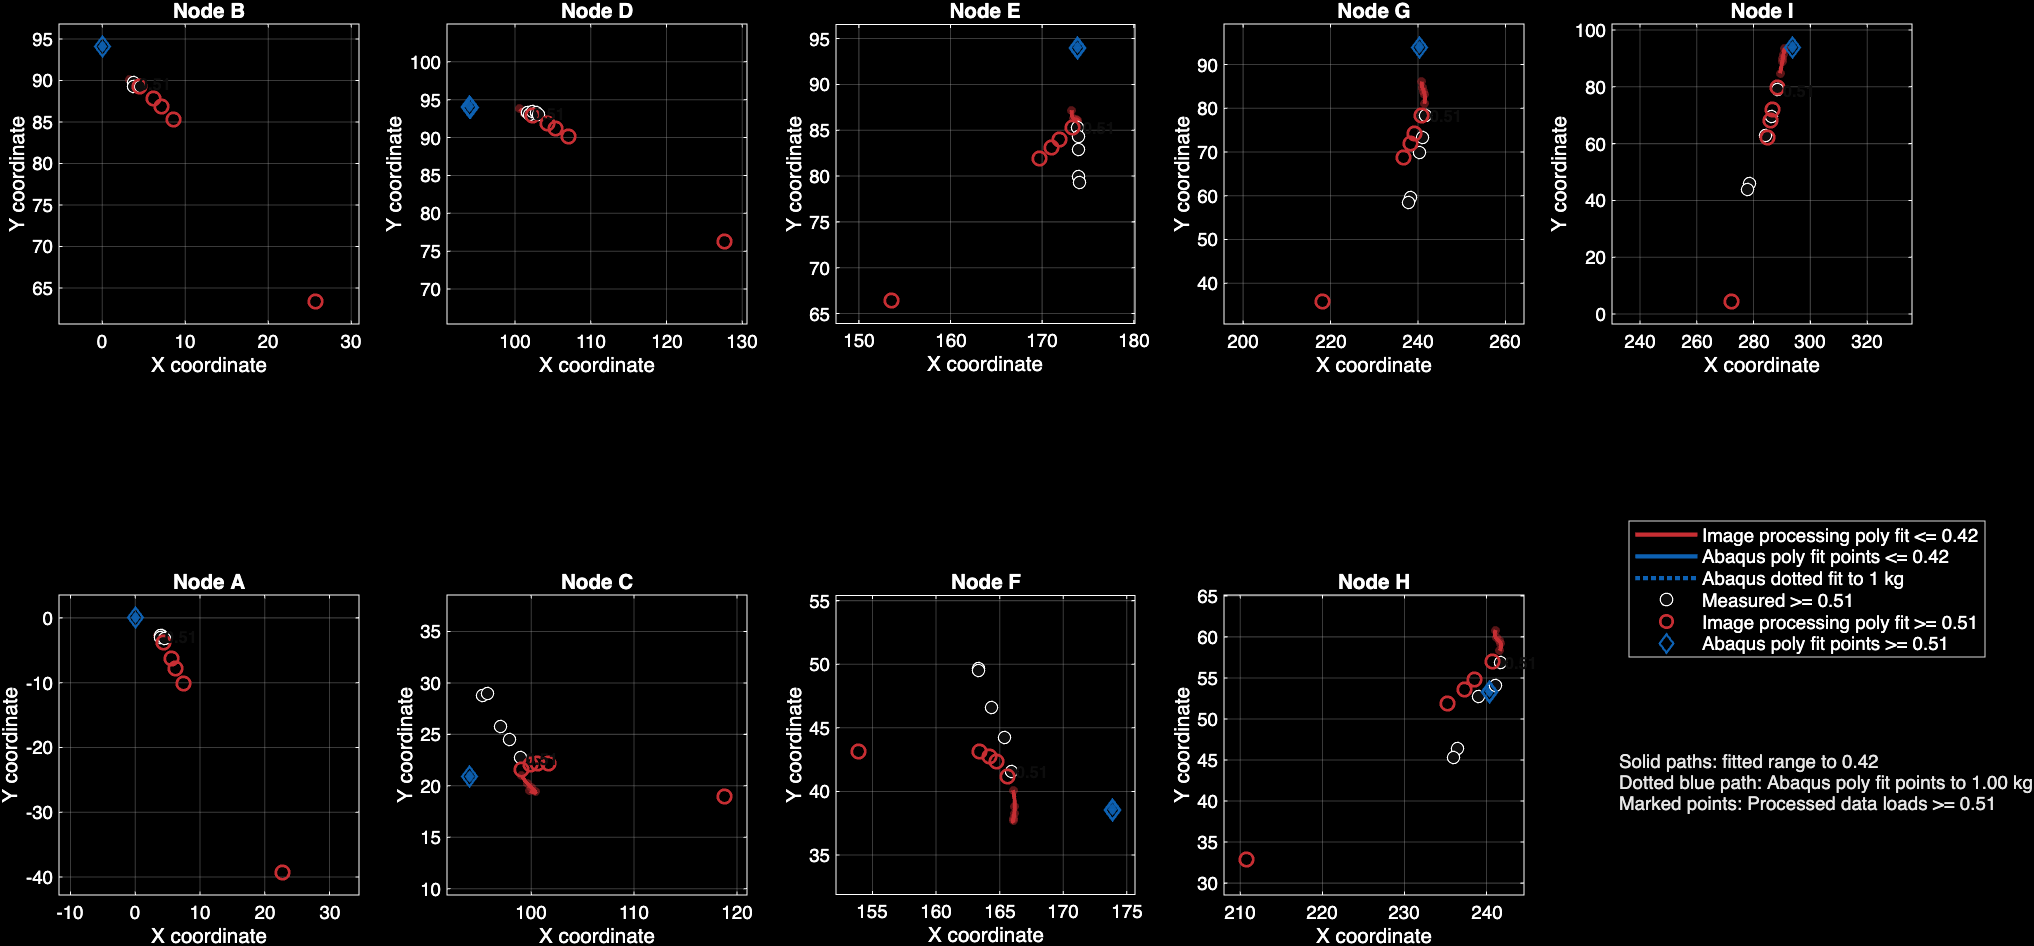
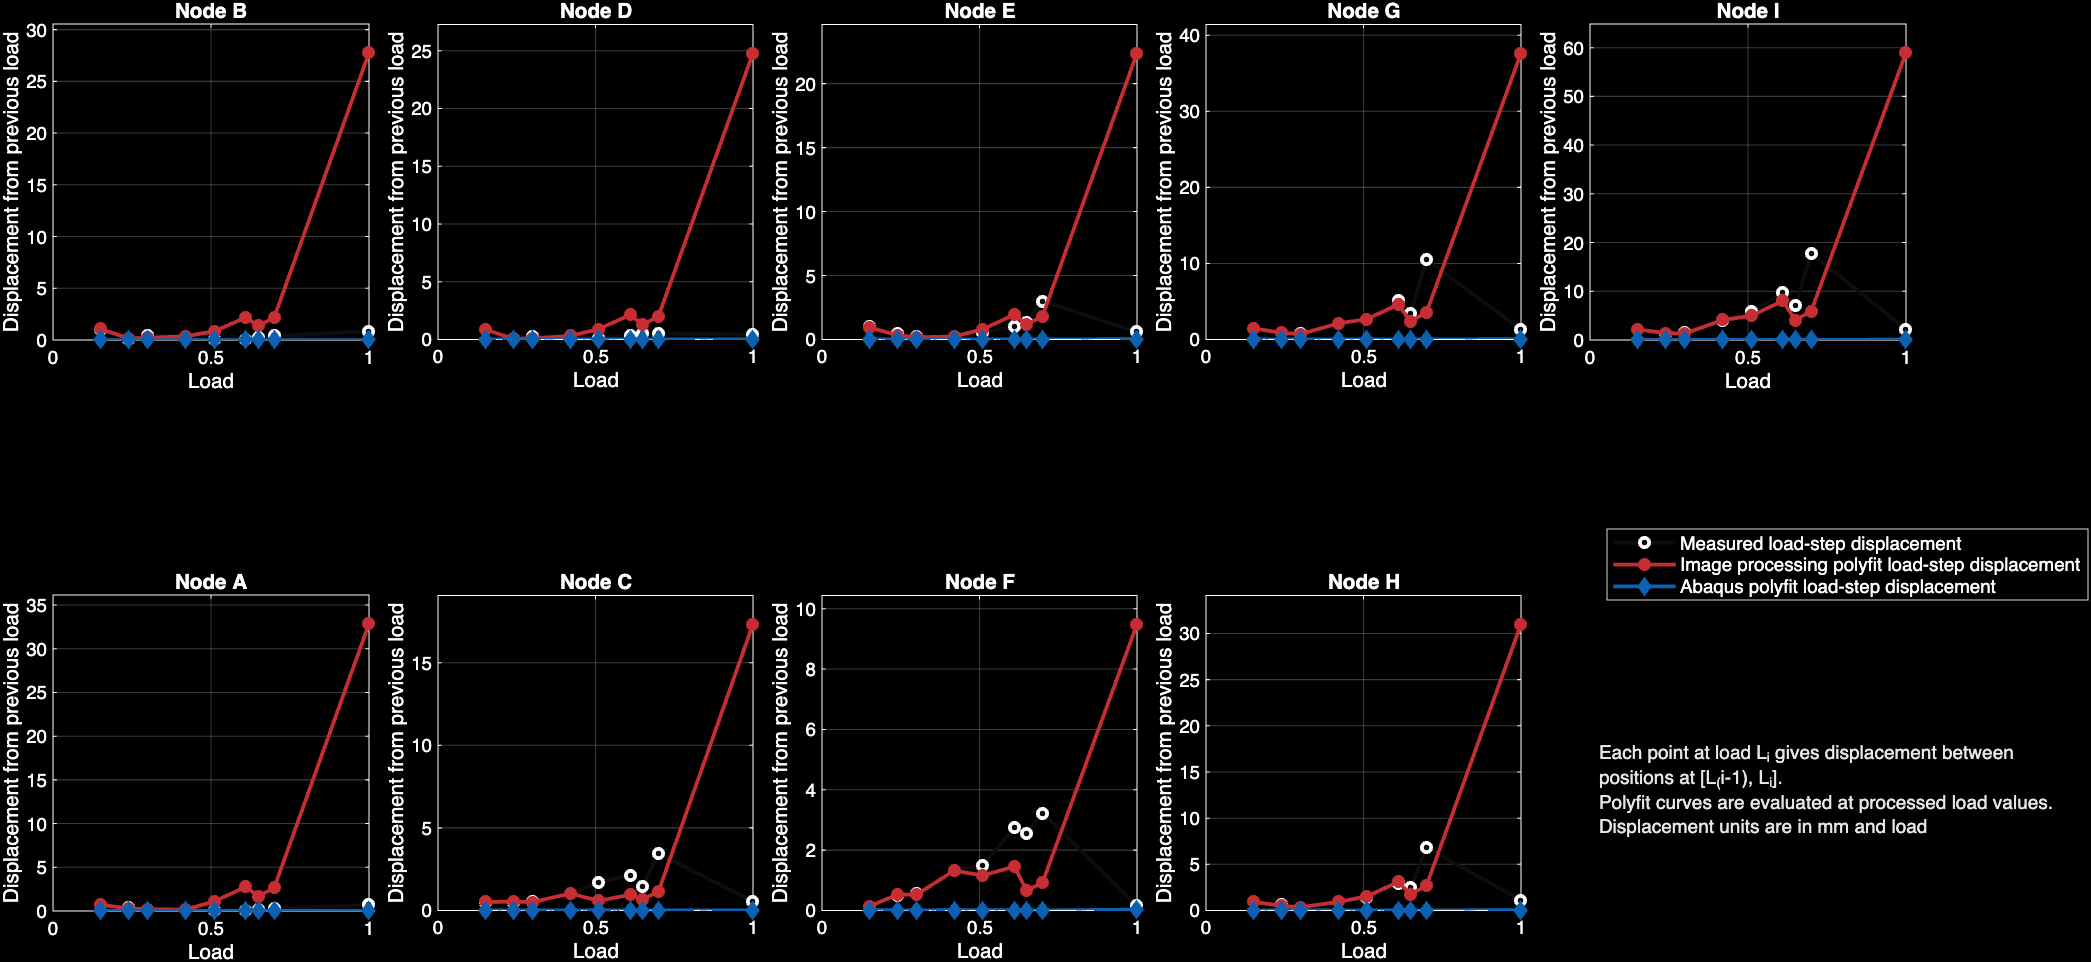
Modified Per_node_detailed_analysis script to show displacement comparisons

diff --git a/Data_analysis/Per_node_detailed_analysis.m b/Data_analysis/Per_node_detailed_analysis.m
@@ -1,31 +1,23 @@
 % =========================================================================
-%  Per-node polyfit deviation plots
+%  Per-node load-step displacement plots
 %
 %  Layout:
 %    Row 1: B, D, E, G, I
 %    Row 2: A, C, F, H
 %
-%  For each node, this script plots the x-y movement path using:
-%    1) Image-processing polyfit from Image_processing_data/Poly_Fit_Results.csv
-%    2) Abaqus polyfit from Abaqus simulation data/Poly_Fit_Results.csv
-%    3) Measured points from Image_processing_data/Processed_data.csv
+%  For each node, this script plots displacement between consecutive loads
+%  as a function of load using:
+%    1) Measured points from Image_processing_data/Processed_data.csv
+%    2) Image-processing polyfit from Image_processing_data/Poly_Fit_Results.csv
+%    3) Abaqus polyfit from Abaqus simulation data/Poly_Fit_Results.csv
 %
-%  Loads <= 0.42 are shown as the fitted pre-deformation path.
-%  The Abaqus fit continues to 1 kg as a dotted prediction line.
-%  Loads >= 0.51 are marked at the Processed_data load points for:
-%    - processed measured data
-%    - image-processing polyfit prediction
-%    - Abaqus polyfit prediction
-%
-%  Each node axis is zoomed independently around that node's movement.
+%  Step displacement at load L_i is computed from positions at
+%  [L_(i-1), L_i] using sqrt((dx)^2 + (dy)^2).
 % =========================================================================
 
 clear; clc; close all;
 
 %% ---------------- User settings ----------------
-load_fit_end   = 0.42;
-load_dev_start = 0.51;
-abaqus_fit_end = 1.00;
 save_figure    = false;
 % -------------------------------------------------
 
@@ -73,16 +65,8 @@ end
 image_coef  = readPolyfitCoefficients(image_fit_file, node_names);
 abaqus_coef = readPolyfitCoefficients(abaqus_fit_file, node_names);
 
-%% ---------------- Load vectors ----------------
-pre_load_points = loads(loads <= load_fit_end);
-if isempty(pre_load_points)
-    error('No processed load points found at or below %.2f.', load_fit_end);
-end
-
-L_pre = linspace(min(pre_load_points), load_fit_end, 160);
-L_dev = loads(loads >= load_dev_start);
-if isempty(L_dev)
-    error('No processed load points found at or above %.2f.', load_dev_start);
+if numel(loads) < 2
+    error('At least two load points are required to compute load-step displacement.');
 end
 
 %% ---------------- Plot styling ----------------
@@ -91,7 +75,7 @@ c_abaqus = [0.05, 0.38, 0.70];
 c_meas   = [0.05, 0.05, 0.05];
 c_grid   = [0.65, 0.65, 0.65];
 
-fig = figure('Name', 'Per-node polyfit deviation', ...
+fig = figure('Name', 'Per-node load-step displacement', ...
              'NumberTitle', 'off', ...
              'Color', 'black', ...
              'Units', 'normalized', ...
@@ -106,64 +90,36 @@ for k = 1:numel(node_order)
     ax = nexttile(k);
     hold(ax, 'on');
 
-    % Fitted paths up to 0.42.
-    [img_x_pre, img_y_pre] = evalNodePath(image_coef, nd, L_pre);
-    [abq_x_pre, abq_y_pre] = evalNodePath(abaqus_coef, nd, L_pre);
+    [img_x, img_y] = evalNodePath(image_coef, nd, loads);
+    [abq_x, abq_y] = evalNodePath(abaqus_coef, nd, loads);
 
-    h_img_pre = plot(ax, img_x_pre, img_y_pre, '-', ...
-        'Color', c_img, 'LineWidth', 2.0, ...
-        'DisplayName', 'Image processing poly fit <= 0.42');
-    h_abq_pre = plot(ax, abq_x_pre, abq_y_pre, '-', ...
-        'Color', c_abaqus, 'LineWidth', 2.0, ...
-        'DisplayName', 'Abaqus poly fit points <= 0.42');
+    [L_meas, disp_meas] = computeLoadStepDisplacement(loads, meas.(nd).x, meas.(nd).y);
+    [L_img, disp_img] = computeLoadStepDisplacement(loads, img_x, img_y);
+    [L_abq, disp_abq] = computeLoadStepDisplacement(loads, abq_x, abq_y);
 
-    % Mark the exact Processed_data load points used before 0.42.
-    [img_x_pre_pts, img_y_pre_pts] = evalNodePath(image_coef, nd, pre_load_points);
-    [abq_x_pre_pts, abq_y_pre_pts] = evalNodePath(abaqus_coef, nd, pre_load_points);
-    scatter(ax, img_x_pre_pts, img_y_pre_pts, 18, c_img, 'o', ...
-        'filled', 'MarkerFaceAlpha', 0.45, 'MarkerEdgeColor', 'none', ...
-        'HandleVisibility', 'off');
-    scatter(ax, abq_x_pre_pts, abq_y_pre_pts, 18, c_abaqus, 'd', ...
-        'filled', 'MarkerFaceAlpha', 0.45, 'MarkerEdgeColor', 'none', ...
-        'HandleVisibility', 'off');
+    h_meas = plot(ax, L_meas, disp_meas, '-o', ...
+        'Color', c_meas, 'LineWidth', 1.8, 'MarkerSize', 4.5, ...
+        'MarkerFaceColor', c_meas, 'MarkerEdgeColor', 'white', ...
+        'DisplayName', 'Measured load-step displacement');
+    h_img = plot(ax, L_img, disp_img, '-o', ...
+        'Color', c_img, 'LineWidth', 1.8, 'MarkerSize', 4.5, ...
+        'MarkerFaceColor', c_img, 'DisplayName', 'Image processing polyfit load-step displacement');
+    h_abq = plot(ax, L_abq, disp_abq, '-d', ...
+        'Color', c_abaqus, 'LineWidth', 1.8, 'MarkerSize', 4.8, ...
+        'MarkerFaceColor', c_abaqus, 'DisplayName', 'Abaqus polyfit load-step displacement');
 
-    % Abaqus prediction after 0.42 continues to 1 kg as a dotted line.
-    % Image-processing fit after 0.42 is shown only through load-point markers.
-    L_abq_ext = linspace(load_fit_end, abaqus_fit_end, 160);
-    [abq_x_ext, abq_y_ext] = evalNodePath(abaqus_coef, nd, L_abq_ext);
+    if isempty(L_meas) && isempty(L_img) && isempty(L_abq)
+        text(ax, 0.5, 0.5, 'No valid load-step points', ...
+            'Units', 'normalized', 'HorizontalAlignment', 'center', ...
+            'Color', 'white', 'FontSize', 9, 'FontWeight', 'bold');
+    end
 
-    plot(ax, abq_x_ext, abq_y_ext, ':', 'Color', c_abaqus, ...
-        'LineWidth', 2.0, 'DisplayName', 'Abaqus poly fit points to 1 kg');
-
-    [img_x_dev, img_y_dev] = evalNodePath(image_coef, nd, L_dev);
-    [abq_x_dev, abq_y_dev] = evalNodePath(abaqus_coef, nd, L_dev);
-
-    dev_mask = loads >= load_dev_start;
-    meas_x_dev = meas.(nd).x(dev_mask);
-    meas_y_dev = meas.(nd).y(dev_mask);
-
-    h_meas_dev = scatter(ax, meas_x_dev, meas_y_dev, 34, c_meas, 'o', ...
-        'filled', 'MarkerEdgeColor', 'white', 'LineWidth', 0.6, ...
-        'DisplayName', 'Measured >= 0.51');
-    h_img_dev = scatter(ax, img_x_dev, img_y_dev, 42, c_img, 'o', ...
-        'LineWidth', 1.3, 'DisplayName', 'Image processing poly fit >= 0.51');
-    h_abq_dev = scatter(ax, abq_x_dev, abq_y_dev, 42, c_abaqus, 'd', ...
-        'LineWidth', 1.3, 'DisplayName', 'Abaqus poly fit points >= 0.51');
-
-    % Mark first deviation point so the post-0.51 comparison is easy to find.
-    text(ax, meas_x_dev(1), meas_y_dev(1), ' 0.51', ...
-        'Color', c_meas, 'FontSize', 8, 'FontWeight', 'bold');
-
-    % Independent zoom around each node's local movement.
-    x_all = [img_x_pre(:); abq_x_pre(:); abq_x_ext(:); ...
-             meas_x_dev(:); img_x_dev(:); abq_x_dev(:)];
-    y_all = [img_y_pre(:); abq_y_pre(:); abq_y_ext(:); ...
-             meas_y_dev(:); img_y_dev(:); abq_y_dev(:)];
-    setLocalSquareLimits(ax, x_all, y_all);
+    xlim(ax, [min(loads), max(loads)]);
+    setLocalYLimits(ax, [disp_meas(:); disp_img(:); disp_abq(:)]);
 
     title(ax, sprintf('Node %s', nd), 'FontWeight', 'bold', 'Color', 'white');
-    xlabel(ax, 'X coordinate', 'Color', 'white');
-    ylabel(ax, 'Y coordinate', 'Color', 'white');
+    xlabel(ax, 'Load', 'Color', 'white');
+    ylabel(ax, 'Displacement from previous load', 'Color', 'white');
     grid(ax, 'on');
     box(ax, 'on');
     ax.Color = 'black';
@@ -180,33 +136,31 @@ end
 %% ---------------- Legend / notes tile ----------------
 ax_legend = nexttile(10);
 hold(ax_legend, 'on');
-h_img_pre_l = plot(ax_legend, nan, nan, '-', ...
-    'Color', c_img, 'LineWidth', 2.0);
-h_abq_pre_l = plot(ax_legend, nan, nan, '-', ...
-    'Color', c_abaqus, 'LineWidth', 2.0);
-h_abq_ext_l = plot(ax_legend, nan, nan, ':', ...
-    'Color', c_abaqus, 'LineWidth', 2.0);
-h_meas_dev_l = scatter(ax_legend, nan, nan, 34, c_meas, 'o', ...
-    'filled', 'MarkerEdgeColor', 'white', 'LineWidth', 0.6);
-h_img_dev_l = scatter(ax_legend, nan, nan, 42, c_img, 'o', ...
-    'LineWidth', 1.3);
-h_abq_dev_l = scatter(ax_legend, nan, nan, 42, c_abaqus, 'd', ...
-    'LineWidth', 1.3);
+h_meas_l = plot(ax_legend, nan, nan, '-o', ...
+    'Color', c_meas, 'LineWidth', 1.8, 'MarkerSize', 4.5, ...
+    'MarkerFaceColor', c_meas, 'MarkerEdgeColor', 'white');
+h_img_l = plot(ax_legend, nan, nan, '-o', ...
+    'Color', c_img, 'LineWidth', 1.8, 'MarkerSize', 4.5, ...
+    'MarkerFaceColor', c_img);
+h_abq_l = plot(ax_legend, nan, nan, '-d', ...
+    'Color', c_abaqus, 'LineWidth', 1.8, 'MarkerSize', 4.8, ...
+    'MarkerFaceColor', c_abaqus);
 axis(ax_legend, 'off');
 legend(ax_legend, ...
-    [h_img_pre_l, h_abq_pre_l, h_abq_ext_l, h_meas_dev_l, h_img_dev_l, h_abq_dev_l], ...
-    {'Image processing poly fit <= 0.42', 'Abaqus poly fit points <= 0.42', 'Abaqus dotted fit to 1 kg', ...
-     'Measured >= 0.51', 'Image processing poly fit >= 0.51', ...
-     'Abaqus poly fit points >= 0.51'}, ...
+    [h_meas_l, h_img_l, h_abq_l], ...
+    {'Measured load-step displacement', 'Image processing polyfit load-step displacement', ...
+     'Abaqus polyfit load-step displacement'}, ...
     'Location', 'northwest', 'FontSize', 9, 'TextColor', 'white', 'Color', 'black');
 text(ax_legend, 0.02, 0.42, ...
-    sprintf('Solid paths: fitted range to %.2f\nDotted blue path: Abaqus poly fit points to %.2f kg\nMarked points: Processed data loads >= %.2f', ...
-            load_fit_end, abaqus_fit_end, load_dev_start), ...
+    sprintf(['Each point at load L_i gives displacement between\n' ...
+             'positions at [L_(i-1), L_i].\n' ...
+             'Polyfit curves are evaluated at processed load values.\n' ...
+             'Displacement units are in mm and load in kg']), ...
     'Units', 'normalized', 'FontSize', 9, 'Color', [0.90, 0.90, 0.90]);
 hold(ax_legend, 'off');
 
 if save_figure
-    out_file = fullfile(repo_dir, 'Results', 'node_polyfit_deviation_subplots.png');
+    out_file = fullfile(repo_dir, 'Results', 'node_load_step_displacement_subplots.png');
     exportgraphics(fig, out_file, 'Resolution', 300);
     fprintf('Saved figure to: %s\n', out_file);
 end
@@ -249,22 +203,44 @@ function [x, y] = evalNodePath(coef, node_name, loads)
     y = polyval(coef.(node_name).y, loads);
 end
 
-function setLocalSquareLimits(ax, x_values, y_values)
-    x_values = x_values(isfinite(x_values));
-    y_values = y_values(isfinite(y_values));
+function [step_loads, step_displacement] = computeLoadStepDisplacement(loads, x_values, y_values)
+    loads = loads(:);
+    x_values = x_values(:);
+    y_values = y_values(:);
 
-    x_min = min(x_values);
-    x_max = max(x_values);
+    if numel(loads) ~= numel(x_values) || numel(loads) ~= numel(y_values)
+        error('Load and coordinate vectors must have the same number of elements.');
+    end
+
+    dx = diff(x_values);
+    dy = diff(y_values);
+    all_step_loads = loads(2:end);
+    all_step_disp = hypot(dx, dy);
+
+    valid_steps = isfinite(all_step_loads) & isfinite(dx) & isfinite(dy) & isfinite(all_step_disp);
+    step_loads = all_step_loads(valid_steps);
+    step_displacement = all_step_disp(valid_steps);
+end
+
+function setLocalYLimits(ax, y_values)
+    y_values = y_values(isfinite(y_values));
+    if isempty(y_values)
+        ylim(ax, [0, 1]);
+        return;
+    end
+
     y_min = min(y_values);
     y_max = max(y_values);
 
-    x_span = max(x_max - x_min, 0.5);
-    y_span = max(y_max - y_min, 0.5);
-    span = max([x_span, y_span, 1.0]) * 1.18;
+    if y_min == y_max
+        pad = max(0.05 * max(abs(y_max), 1), 1e-4);
+    else
+        pad = 0.10 * (y_max - y_min);
+    end
 
-    x_mid = (x_min + x_max) / 2;
-    y_mid = (y_min + y_max) / 2;
-
-    xlim(ax, x_mid + [-span, span] / 2);
-    ylim(ax, y_mid + [-span, span] / 2);
+    lower_lim = y_min - pad;
+    if y_min >= 0
+        lower_lim = max(0, lower_lim);
+    end
+    ylim(ax, [lower_lim, y_max + pad]);
 end